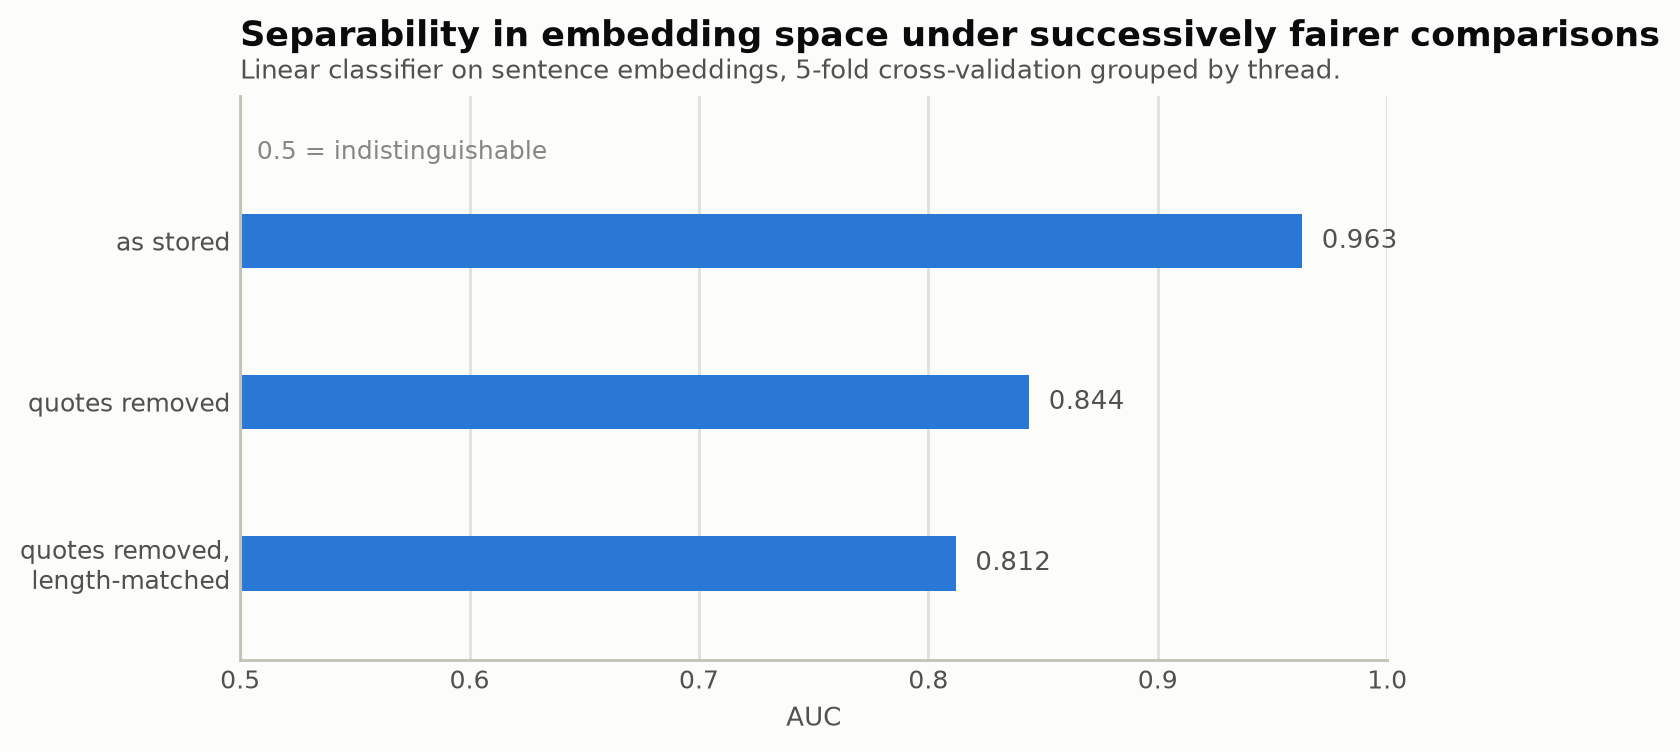
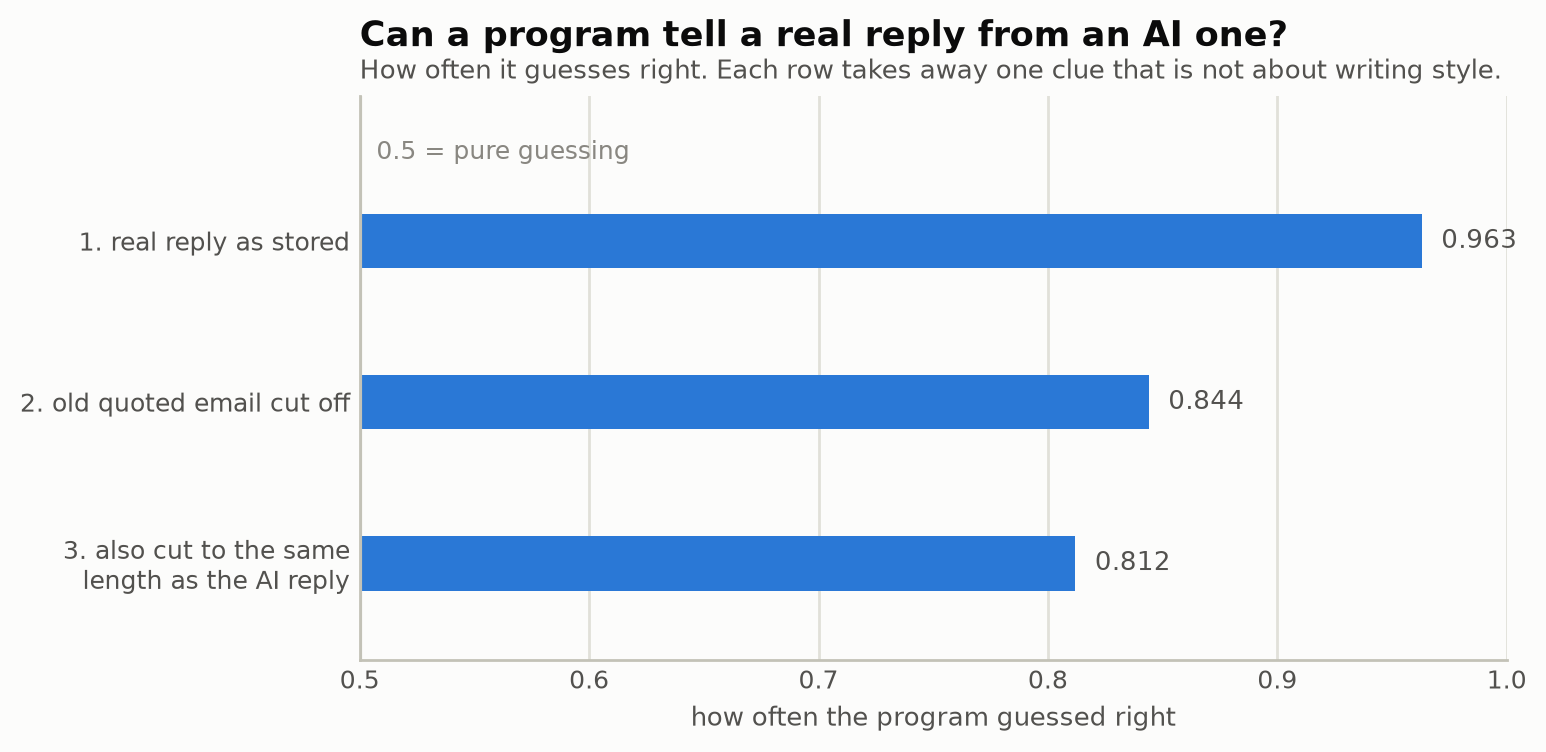
Re-run the embedding check on the rebuilt corpus, and say what it measures in plain words
Section 35 explained its guessing test by naming the measure (AUC,
separability) rather than saying what it means, which made the section
unreadable without prior knowledge. Rewritten in plain words: 0.5 is guessing
blindly, 1.0 is right every time, and each round of the test takes away one
clue that is not about writing style. Same numbers, no new claims.

The check itself had never been re-run after the Aug 31 corpus rebuild.
Re-ran it (section 40): it is now two rounds rather than three, because the
corpus itself is clean and there is no quoted email left to cut off. The
number that matters barely moves, 0.812 to 0.813 -- that round was already the
fair one -- while the first round falls from 0.963 to 0.882 now that the
corpus no longer hands the classifier a free clue. Topical tracking improves:
86% of generated replies are closer to their own real reply than to another
thread's, up from 81%.

Two supporting changes:

- embedding_map.py skips the quote-removal round when the stored text is
  already clean, instead of drawing the same measurement twice as two bars,
  and takes --figure-prefix so a re-run cannot overwrite a figure an existing
  section points at. That last one fixes an actual mistake: the first
  regeneration silently replaced section 35's figures with numbers from the
  rebuilt corpus, leaving the picture disagreeing with the table above it.
- Section 35's figure is now pinned in plots.py to the values that section
[…]

diff --git a/src/thesis/analysis/embedding_map.py b/src/thesis/analysis/embedding_map.py
@@ -168,48 +168,68 @@ def _view(
     return result, real_vectors, generated_vectors
 
 
-def run(frame: pd.DataFrame, *, embed_model: str = DEFAULT_EMBED_MODEL) -> dict[str, object]:
+def run(
+    frame: pd.DataFrame,
+    *,
+    embed_model: str = DEFAULT_EMBED_MODEL,
+    figure_prefix: str = "embedding_",
+) -> dict[str, object]:
     """Produce the maps, the separability bars, and the topical-tracking check.
 
-    Three successively fairer versions of the same comparison, so that whatever
-    separability remains at the end cannot be attributed to the two obvious
-    formatting confounds:
+    Successively fairer versions of the same comparison, so that whatever
+    separability remains at the end cannot be attributed to a formatting
+    confound rather than to how the two actually write:
 
-    1. the real reply exactly as the corpus stores it, quoted ancestors and all;
-    2. the same reply with quoted material removed by the current cleaner;
+    1. the real reply exactly as the corpus stores it;
+    2. the same reply with any quoted ancestor removed by the current cleaner;
     3. that, truncated to the generated reply's own word count.
+
+    **Step 2 disappears once the corpus itself is clean**, and that is the
+    normal case after the Aug 31 rebuild: re-cleaning already-clean text is the
+    identity, so drawing it as a separate bar would invite the reader to
+    compare two numbers that are the same measurement twice. It is reported as
+    skipped instead.
+
+    ``figure_prefix`` names the figures. Re-running this against new data must
+    not overwrite the figures a written-up section already points at -- the
+    same reason the judge figures carry a per-run suffix.
     """
     stored_texts = list(frame["real_reply_body"])
     real_texts = list(frame["real_reply_body_recleaned"])
     generated_texts = list(frame["generated_reply"])
+    quotes_already_stripped = stored_texts == real_texts
+    n_pairs = len(frame)
 
-    stored, _, _ = _view(
+    stored, real_vectors, generated_vectors = _view(
         frame,
         stored_texts,
         generated_texts,
         view="as stored",
         embed_model=embed_model,
-        figure_path=DOCS_FIGURES_DIR / "embedding_map_stored.png",
+        figure_path=DOCS_FIGURES_DIR / f"{figure_prefix}map_stored.png",
         title="Real and generated replies to the same messages, embedded",
         subtitle=(
-            "Real replies as the corpus stores them, quoted ancestors included. "
-            "t-SNE, n=190 pairs; read for overlap only."
+            f"Real replies as the corpus stores them. t-SNE, n={n_pairs} pairs; "
+            "read for overlap only."
         ),
     )
 
-    cleaned, real_vectors, generated_vectors = _view(
-        frame,
-        real_texts,
-        generated_texts,
-        view="quotes removed",
-        embed_model=embed_model,
-        figure_path=DOCS_FIGURES_DIR / "embedding_map_quotes_removed.png",
-        title="The same comparison once quoted ancestors are removed",
-        subtitle=(
-            "Real replies re-cleaned with the current quote stripper. "
-            "60% of them carried a quoted chain before this."
-        ),
-    )
+    views = [stored]
+    bars: list[tuple[str, float]] = [("1. real reply as stored", stored.separability_auc)]
+
+    if not quotes_already_stripped:
+        cleaned, real_vectors, generated_vectors = _view(
+            frame,
+            real_texts,
+            generated_texts,
+            view="quotes removed",
+            embed_model=embed_model,
+            figure_path=DOCS_FIGURES_DIR / f"{figure_prefix}map_quotes_removed.png",
+            title="The same comparison once quoted ancestors are removed",
+            subtitle="Real replies re-cleaned with the current quote stripper.",
+        )
+        views.append(cleaned)
+        bars.append(("2. old quoted email cut off", cleaned.separability_auc))
 
     truncated = [
         truncate_words(real, len(generated.split()))
@@ -219,25 +239,31 @@ def run(frame: pd.DataFrame, *, embed_model: str = DEFAULT_EMBED_MODEL) -> dict[
         frame,
         truncated,
         generated_texts,
-        view="quotes removed, length-matched",
+        view="length-matched",
         embed_model=embed_model,
-        figure_path=DOCS_FIGURES_DIR / "embedding_map_length_matched.png",
-        title="The same comparison with reply length also held equal",
+        figure_path=DOCS_FIGURES_DIR / f"{figure_prefix}map_length_matched.png",
+        title="The same comparison with reply length held equal",
         subtitle=(
-            "Each real reply truncated to its own pair's generated word count. "
-            "Separation surviving this is neither quoting nor length."
+            "Each real reply cut to its own pair's generated word count. "
+            "Separation surviving this is not about length."
         ),
+    )
+    views.append(matched)
+    bars.append(
+        (f"{len(bars) + 1}. also cut to the same\nlength as the AI reply", matched.separability_auc)
     )
 
     plot_discrimination_auc(
-        ("as stored", "quotes removed", "quotes removed,\nlength-matched"),
-        (stored.separability_auc, cleaned.separability_auc, matched.separability_auc),
-        path=DOCS_FIGURES_DIR / "embedding_separability_auc.png",
-        title="Separability in embedding space under successively fairer comparisons",
+        [label for label, _ in bars],
+        [value for _, value in bars],
+        path=DOCS_FIGURES_DIR / f"{figure_prefix}separability_auc.png",
+        title="Can a program tell a real reply from an AI one?",
         subtitle=(
-            "Linear classifier on sentence embeddings, 5-fold cross-validation "
-            "grouped by thread."
+            "How often it guesses right. Each row takes away one clue that is not about "
+            "writing style."
         ),
+        x_label="how often the program guessed right",
+        chance_note="0.5 = pure guessing",
     )
 
     matched_cos, mismatched_cos = matched_vs_mismatched_cosine(real_vectors, generated_vectors)
@@ -246,9 +272,9 @@ def run(frame: pd.DataFrame, *, embed_model: str = DEFAULT_EMBED_MODEL) -> dict[
             "generated vs. its own real reply": matched_cos.tolist(),
             "generated vs. another thread's real reply": mismatched_cos.tolist(),
         },
-        path=DOCS_FIGURES_DIR / "embedding_topical_tracking.png",
+        path=DOCS_FIGURES_DIR / f"{figure_prefix}topical_tracking.png",
         title="Does a generated reply track the message it was answering?",
-        subtitle="Cosine similarity in embedding space, n=190 each.",
+        subtitle=f"Cosine similarity in embedding space, n={n_pairs} each.",
         x_label="cosine similarity",
         annotate_distinct=False,
     )
@@ -256,7 +282,8 @@ def run(frame: pd.DataFrame, *, embed_model: str = DEFAULT_EMBED_MODEL) -> dict[
     return {
         "embedding_model": embed_model,
         "seed": SEED,
-        "views": [asdict(stored), asdict(cleaned), asdict(matched)],
+        "quotes_already_stripped": quotes_already_stripped,
+        "views": [asdict(view) for view in views],
         "topical_tracking": {
             "mean_cosine_matched": round(float(np.mean(matched_cos)), 3),
             "mean_cosine_mismatched": round(float(np.mean(mismatched_cos)), 3),
@@ -269,6 +296,11 @@ def main() -> None:
     parser = argparse.ArgumentParser(description=__doc__)
     parser.add_argument("--pairs", default=str(PAIRS_PATH))
     parser.add_argument("--embed-model", default=DEFAULT_EMBED_MODEL)
+    parser.add_argument(
+        "--figure-prefix",
+        default="embedding_",
+        help="Filename prefix for the figures, so a re-run does not overwrite reported ones.",
+    )
     parser.add_argument("--out", default=str(MANIFESTS_DIR / "embedding_map.json"))
     args = parser.parse_args()
 
@@ -276,7 +308,7 @@ def main() -> None:
     ensure_dirs()
 
     frame = pd.read_parquet(args.pairs)
-    summary = run(frame, embed_model=args.embed_model)
+    summary = run(frame, embed_model=args.embed_model, figure_prefix=args.figure_prefix)
 
     out = Path(args.out)
     out.write_text(json.dumps(summary, indent=2, sort_keys=True), encoding="utf-8")

diff --git a/src/thesis/analysis/plots.py b/src/thesis/analysis/plots.py
@@ -249,8 +249,16 @@ def plot_discrimination_auc(
     *,
     title: str = "Model-free discrimination: can a word-count classifier tell them apart?",
     subtitle: str = "",
+    x_label: str = "AUC",
+    chance_note: str = "0.5 = indistinguishable",
 ) -> Path:
     """Horizontal bars measuring distance above chance.
+
+    ``x_label`` and ``chance_note`` are settable because the same chart serves
+    two audiences. "AUC" is the right word in a methods chapter and the wrong
+    one in a memo for a reader meeting the measure for the first time, who
+    needs "how often it guessed right" and an explicit "0.5 = pure guessing".
+    The picture is identical either way; only the words change.
 
     **Anchored at 0.5, not 0.** An AUC of 0 is not "no separation" -- 0.5
     is, and a bar drawn from zero encodes half its length as meaning that
@@ -282,7 +290,7 @@ def plot_discrimination_auc(
     ax.barh(y, [a - 0.5 for a in aucs], left=0.5, height=0.34, color=SERIES_1, zorder=2)
     ax.axvline(0.5, color=BASELINE, linewidth=1.5, zorder=3)
     ax.annotate(
-        "0.5 = indistinguishable",
+        chance_note,
         (0.5, max(y) + 0.55),
         textcoords="offset points",
         xytext=(6, 0),
@@ -305,7 +313,7 @@ def plot_discrimination_auc(
     ax.set_yticks(y, list(labels))
     ax.set_xlim(0.5, 1.0)
     ax.set_ylim(-0.6, max(y) + 0.9)
-    ax.set_xlabel("AUC", color=INK_SECONDARY, fontsize=9.5)
+    ax.set_xlabel(x_label, color=INK_SECONDARY, fontsize=9.5)
     return _finish(fig, ax, title, subtitle, path)
 
 
@@ -648,6 +656,29 @@ def main() -> None:
         subtitle="Sentence-level predicted probability of an imperative sentence. 'Writing up' now differs from lateral at p=.046.",
         x_label="who the persona is writing to",
         y_label="predicted probability (sentence-level)",
+    )
+
+    # Section 35's guessing test, pinned to the values that section reports.
+    # It cannot be regenerated from live data any more: the corpus it measured
+    # was rebuilt on Aug 31, so its middle row -- the one that removes quoted
+    # text -- no longer exists as a distinct condition. Pinning it here is the
+    # same choice the figures above make, and it is what keeps the picture and
+    # the section's own table saying the same thing.
+    plot_discrimination_auc(
+        (
+            "1. real reply as stored",
+            "2. old quoted email cut off",
+            "3. also cut to the same\nlength as the AI reply",
+        ),
+        (0.963, 0.844, 0.812),
+        path=DOCS_FIGURES_DIR / "embedding_separability_auc.png",
+        title="Can a program tell a real reply from an AI one?",
+        subtitle=(
+            "How often it guesses right. Each row takes away one clue that is not about "
+            "writing style."
+        ),
+        x_label="how often the program guessed right",
+        chance_note="0.5 = pure guessing",
     )
 
     # Section 41: the judge-swap self-preference pilot (section 23),

diff --git a/PROGRESS.md b/PROGRESS.md
@@ -1469,32 +1469,42 @@ center.
 ![Real and generated replies to the same 190 messages, embedded and
 projected with t-SNE. The clouds overlap substantially.](docs/figures/embedding_map_quotes_removed.png)
 
-**A t-SNE plot cannot answer the question it appears to answer.** Overlap
-in two dimensions does not mean the groups cannot be told apart in the
-original 768, and here they demonstrably can be: a plain linear classifier
-fitted on the same vectors, cross-validated with each real/generated pair
-kept inside one fold, separates them at **AUC 0.844** — nowhere near the
-0.5 the picture suggests. So the map is reported *with* the classifier
-number beside it, and the honest reading is "the model writes email that
-lives in the same neighborhood, in a recognizably different dialect."
+**The picture cannot answer the question it looks like it answers.** Here
+is a harder test. Hide the labels, hand all 380 replies to a simple
+program, and ask it to guess which ones a person wrote. The score is how
+often it guesses right: **0.5 means it is guessing blindly, 1.0 means it
+is right every time.** On these replies it scores **0.844** — far from
+blind guessing, even though the picture above makes the two groups look
+mixed together. So the map is only ever reported *with* that number next
+to it. The honest reading: the model writes email that belongs to the same
+world, in a noticeably different voice.
 
-That number is also the fairest of three, and the sequence itself is the
-finding:
+The test was run three times. Each round takes away one clue that has
+nothing to do with how the writer writes, so each round is fairer than the
+one before:
 
-| Comparison | AUC | Mean real-reply length |
+| What the program was shown | How often it guessed right | Length of the real reply |
 |---|---:|---:|
-| Real reply as the corpus stores it | 0.963 | 79.3 words |
-| Quoted ancestors removed | 0.844 | 54.4 words |
-| Quotes removed **and** length matched | 0.812 | 17.9 words |
+| 1. The real reply exactly as the corpus stores it | 0.963 | 79.3 words |
+| 2. With the old quoted email cut off the bottom | 0.844 | 54.4 words |
+| 3. Also cut to the same length as its AI partner | 0.812 | 17.9 words |
 
-![Separability under three successively fairer comparisons.](docs/figures/embedding_separability_auc.png)
+![Three rounds of the guessing test, each fairer than the last: 0.963, then 0.844, then 0.812.](docs/figures/embedding_separability_auc.png)
 
-The same recalculation on the *model-free* TF-IDF classifier this log has
-quoted before moves it from **0.969 to 0.906**, and length alone from
-0.931 to **0.809**. The earlier conclusion — real and generated replies
-are highly separable, largely on length — still holds. Its size was
-overstated, and section 32's "nearly perfectly separable" should be read
-as 0.91, not 0.98.
+Round 1 is easy for the wrong reason. Real replies still had the earlier
+email quoted underneath them, and an AI reply never has that — so the
+program was partly spotting "this one has an old email stuck to it", not
+"a person wrote this". Round 2 cuts that off. Real replies are also much
+longer, and length by itself is a giveaway, so round 3 cuts every real
+reply down to the length of its AI partner.
+
+**What is left at 0.81 is a real difference in how the two write.** But
+the first number oversold how big that difference is. The older version of
+this test in this log moves the same way when recalculated — from **0.969
+to 0.906**, and length alone from 0.931 to **0.809**. The earlier
+conclusion still holds: real and AI replies are easy to tell apart, mostly
+by length. Its size was overstated, and section 32's "nearly perfectly
+separable" should be read as 0.91, not 0.98.
 
 #### The replies really are answering their own stimulus
 
@@ -1981,6 +1991,45 @@ feature-extraction glue — the model-fitting itself is already tested in
 `test_hierarchy.py`. The next corpus or persona change can be checked
 with one command instead of redoing this archaeology again. 505 tests
 pass, ruff/black/mypy clean.
+
+---
+
+### 40. The embedding check, re-run on the rebuilt corpus (Sep 4)
+
+Section 35's embedding check was the one part of that session never re-run
+after the corpus rebuild. Re-ran it. It costs nothing — the replies come
+from cache and the embedding model is local.
+
+**It is now a two-round test, not three.** Round 2 in section 35 was "cut
+the old quoted email off the real reply". The rebuild (section 37) does
+that to the corpus itself, so re-cleaning the stored text now changes
+nothing at all — the code checks this and skips the round instead of
+drawing the same measurement twice as two bars.
+
+| What the program was shown | How often it guessed right | Length of the real reply |
+|---|---:|---:|
+| 1. The real reply as the corpus now stores it | 0.882 | 65.0 words |
+| 2. Also cut to the same length as its AI partner | 0.813 | 19.0 words |
+
+![Two rounds of the guessing test on the rebuilt corpus: 0.882, then 0.813.](docs/figures/embedding_rebuilt_separability_auc.png)
+
+Read against section 35's 0.963 / 0.844 / 0.812, this is the same story
+with the middle step already done for us. The first number falls from
+0.963 to 0.882 because the corpus no longer hands the program a free clue,
+and **the number that matters barely moves: 0.812 → 0.813**. That was the
+point of that round — it was already the fair one — so the corpus fix
+changed how the test looks, not what it says.
+
+**Topical tracking holds and improves slightly.** A generated reply is
+still closer to the real reply it was matched with (mean cosine 0.582)
+than to a real reply from another thread (0.465), and now **86% of replies
+are closer to their own**, up from 81%.
+
+Figures from this run are prefixed `embedding_rebuilt_`, and section 35's
+keep their own names. Re-running the analysis can no longer overwrite a
+figure that a written-up section points at, which is how the picture above
+section 35's table came to disagree with the table itself for a few
+minutes today.
 
 ---
 
